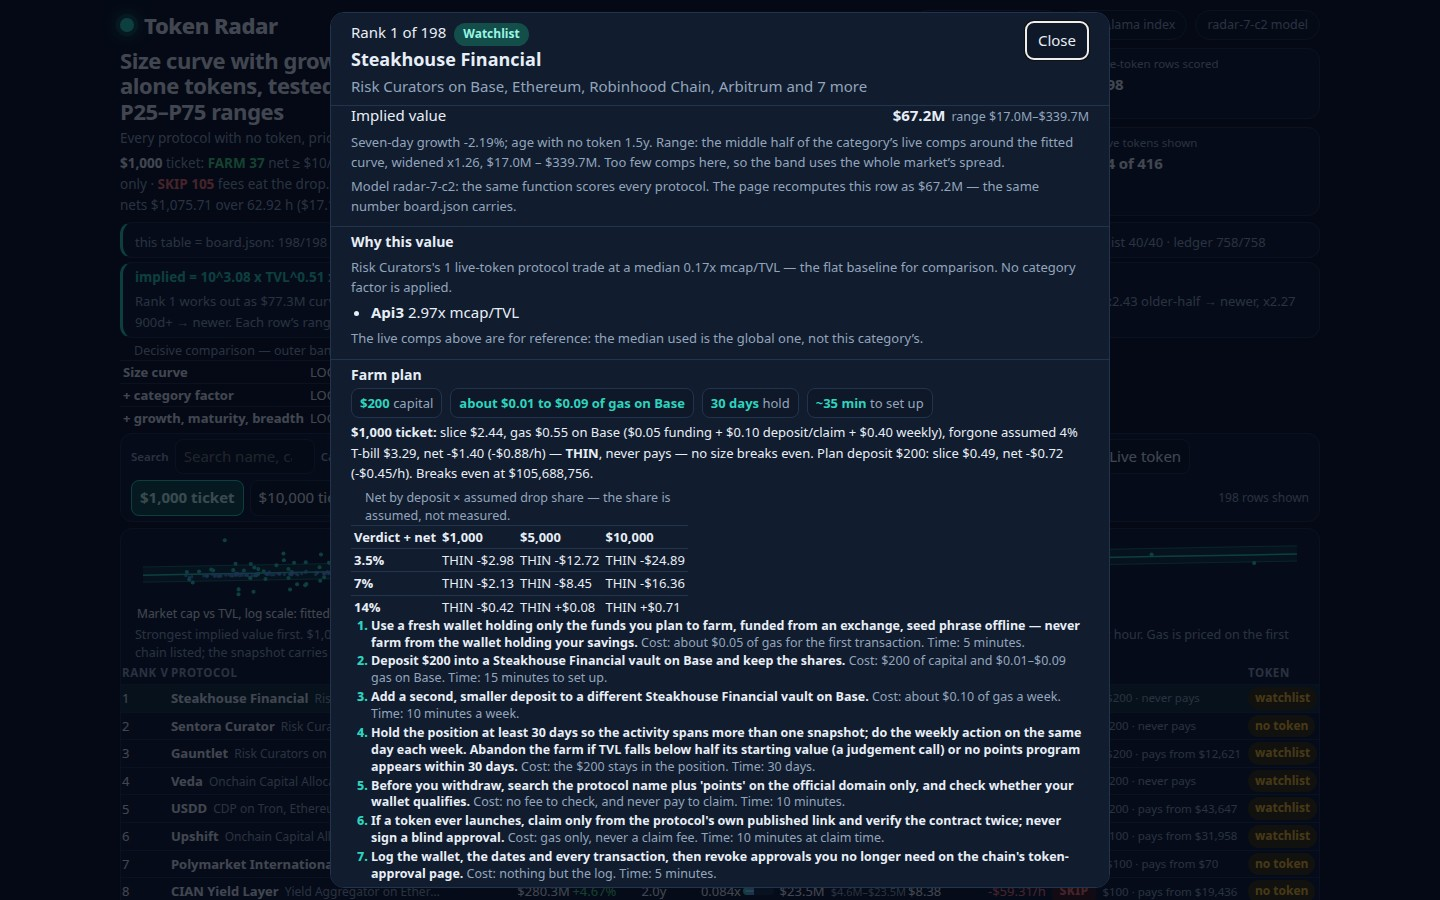
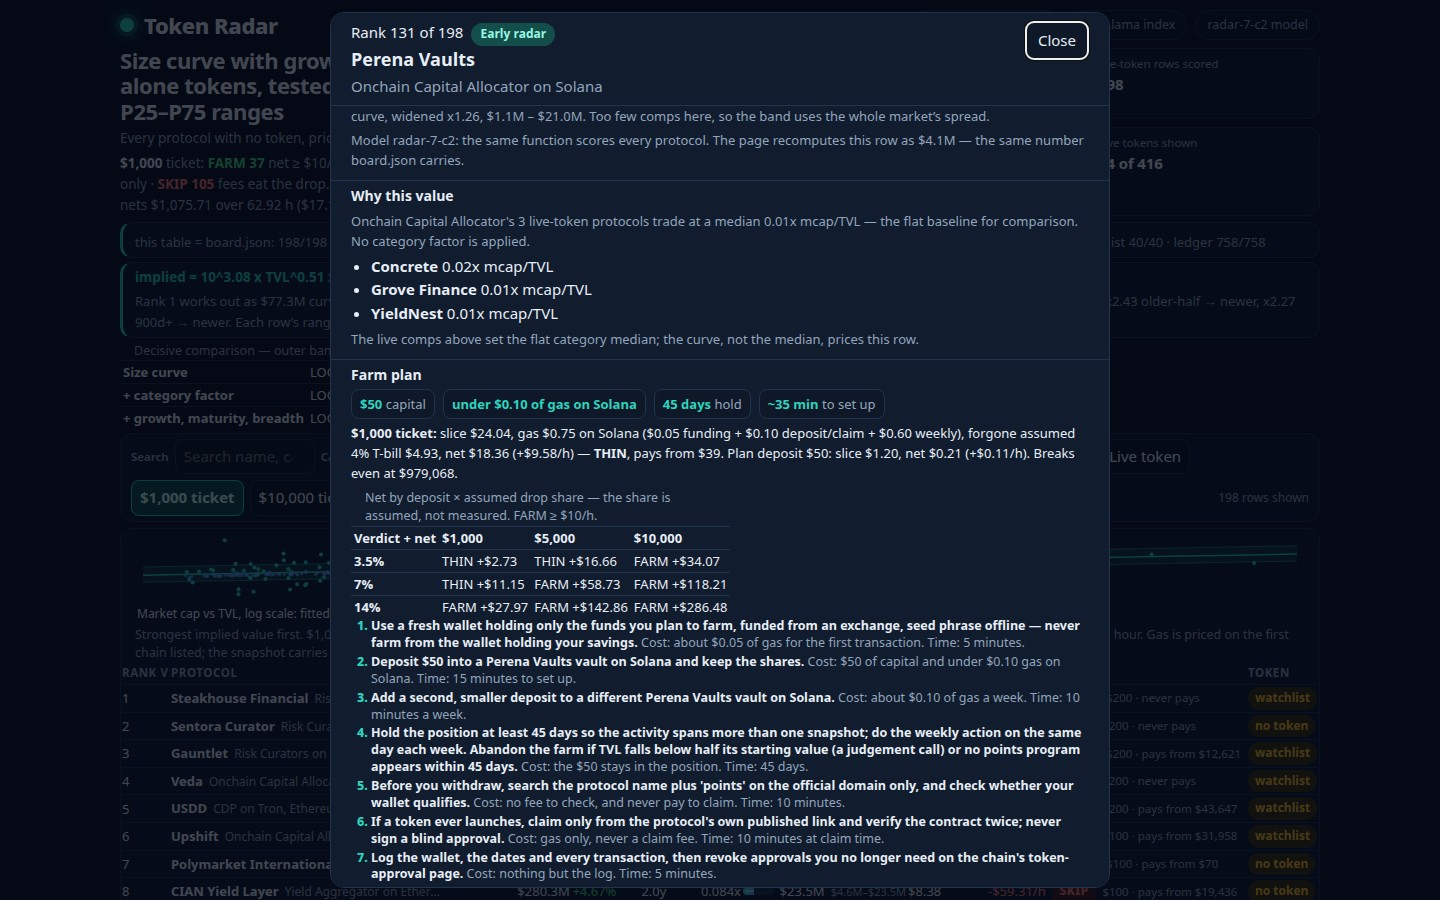
Slot 10 fix 1: shot 2 retake on Perena + caption FARM ≥ $10/h (+16 B)
Red-team F1: shot 2 now showcases the grid on Perena Vaults (6 FARM / 3
THIN, flips in both directions) instead of Steakhouse (9/9 THIN).
Red-team F2: grid caption appends ' FARM ≥ $10/h.' so the verdict bar is
labelled in the detail dialog itself. app.js 55,403 -> 55,419 B; dossier
64,937 -> 64,953 B, spare 583 B. board.json sha256 unchanged
(d1cf1ba74a42597a8f24c5051454345b2618aa6b7fe56bd61e641aa209961f1c).
Shots 1 and 3 md5-identical to tip 3a556c0. No submit.

diff --git a/dashboard/app.js b/dashboard/app.js
@@ -77,7 +77,7 @@
   }
   function gridText(net) { return (net >= 0 ? '+' : '') + fmtExact(round2(net)); }
   function gridHtml(row) {
-    var s = '<table class="mini"><caption>Net by deposit × assumed drop share — the share is assumed, not measured.</caption><tr><th>Verdict + net</th><th class="num">$1,000</th><th class="num">$5,000</th><th class="num">$10,000</th></tr>';
+    var s = '<table class="mini"><caption>Net by deposit × assumed drop share — the share is assumed, not measured. FARM ≥ $10/h.</caption><tr><th>Verdict + net</th><th class="num">$1,000</th><th class="num">$5,000</th><th class="num">$10,000</th></tr>';
     [[0.035, '3.5%'], [0.07, '7%'], [0.14, '14%']].forEach(function (r) {
       s += '<tr><th>' + r[1] + '</th>';
       [1000, 5000, 10000].forEach(function (d) { var c = ticketOf(row, d, r[0]); s += '<td class="num">' + c.verdict + ' ' + gridText(c.net_usd) + '</td>'; });
